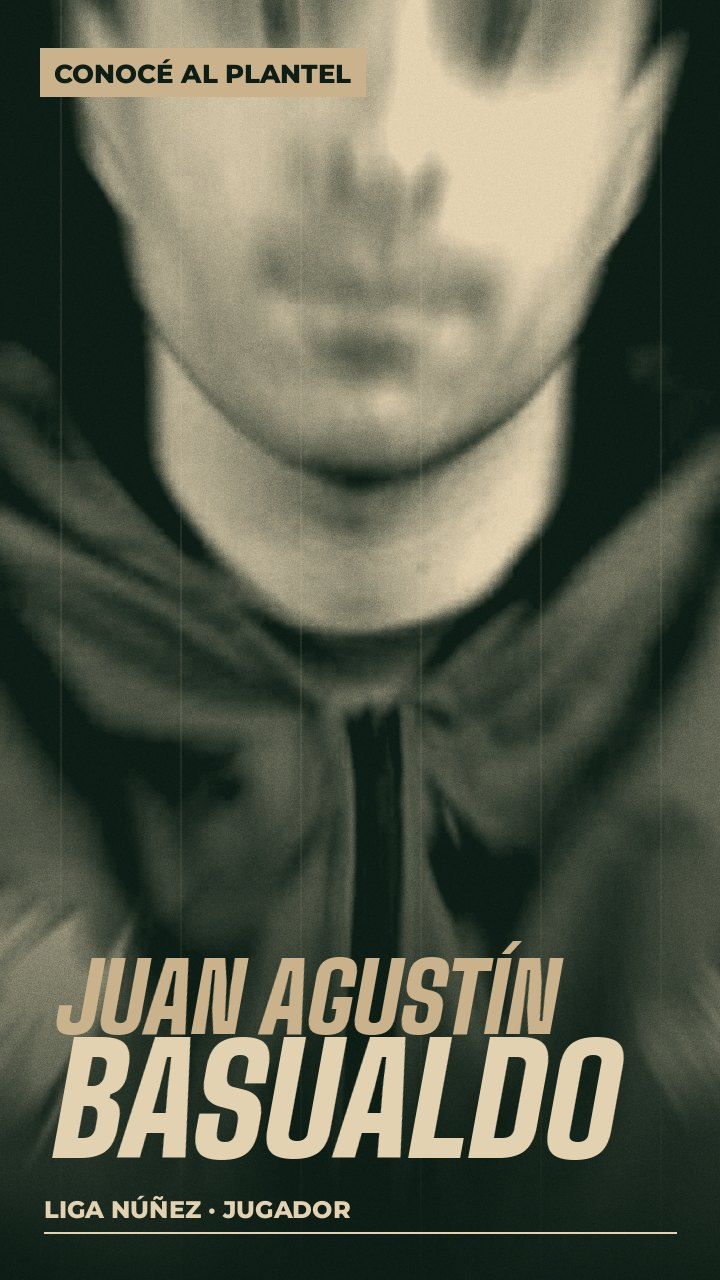
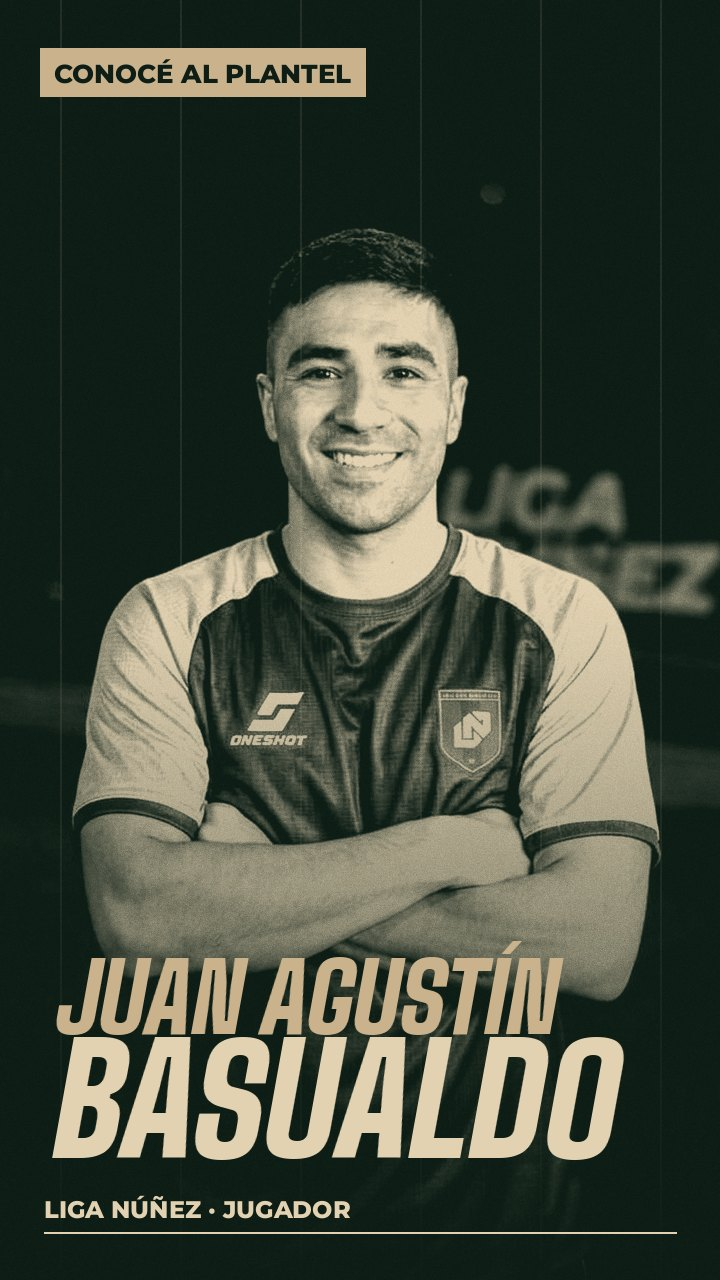
Plantel: fotos de Pepe Basualdo
Claude-Session: https://claude.ai/code/session_01M6jUVZkPLQ8eqEsdzbFnz8

diff --git a/copa-potrero/index.html b/copa-potrero/index.html
@@ -713,7 +713,7 @@ footer .handles a{color:var(--paper);text-decoration:none}
   function ini(n){return n.split(' ').map(function(w){return w[0]}).join('').slice(0,2).toUpperCase();}
   var nick={'Mateo Grillo':'El Jeque'};
   // media day: md[nombre] -> jugadores-md-<k>-cr.jpg (brazos cruzados) y -lb.jpg (libre / con pelota)
-  var md={"Vito Gaita": "vito", "Santiago Monsalvo": "monza", "Tomás Raimondo": "raimondo", "Tomás Rodríguez": "beto", "Matías Miranda": "miranda", "Joaquín Alejandro Esbry": "esbry", "Federico Carrizo": "carrizo", "Sebastián Porfirio": "porfi", "Facu Zalazar": "zalazar", "Lucas Farina": "farina", "Bruno Gaita": "gaita", "Bruno La Perla": "laperla", "Mateo Grillo": "grillo", "Joaquín Burnes": "burnes", "Daniel Vidaurre": "dani", "Carlos": "carlos", "Federico Figueroa": "figueroa", "Fabio Sisca": "sisca", "Mateo Flaherty": "flaherty"};
+  var md={"Vito Gaita": "vito", "Santiago Monsalvo": "monza", "Tomás Raimondo": "raimondo", "Tomás Rodríguez": "beto", "Matías Miranda": "miranda", "Joaquín Alejandro Esbry": "esbry", "Federico Carrizo": "carrizo", "Sebastián Porfirio": "porfi", "Facu Zalazar": "zalazar", "Lucas Farina": "farina", "Bruno Gaita": "gaita", "Bruno La Perla": "laperla", "Mateo Grillo": "grillo", "Joaquín Burnes": "burnes", "Daniel Vidaurre": "dani", "Carlos": "carlos", "Federico Figueroa": "figueroa", "Fabio Sisca": "sisca", "Mateo Flaherty": "flaherty", "Juan Basualdo": "pepe"};
   var fotos={};Object.keys(md).forEach(function(n){fotos[n]='md-'+md[n]+'-cr';});
   function av(n,txt){return fotos[n]?'<img class="av" src="jugadores-'+fotos[n]+'.jpg" alt="'+n+'">':'<span class="num">'+txt+'</span>';}
   // datos del media day
